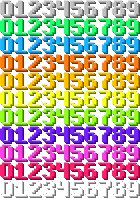
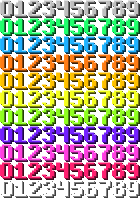
Visor: tamanho proprio (opcao do cliente, 115% por padrao) para hotbar, barras, experiencia, temperatura e estamina; termometro menor e encostado como a estamina (so desvia do numero verde); barra de experiencia 2 px a direita; sombras dos numeros de nivel mais escuras
Claude-Session: https://claude.ai/code/session_019mGK3aUymcjGdU9EbZjEUk

diff --git a/src/main/java/com/bino/binosvanillaplus/client/thirst/ClientTemperature.java b/src/main/java/com/bino/binosvanillaplus/client/thirst/ClientTemperature.java
@@ -34,6 +34,12 @@ public final class ClientTemperature {
 
     public static void receive(TemperatureSyncPayload m) { ambient = m.ambient(); exposure = m.exposure(); has = true; }
 
+    // tamanho do visor (opcao do cliente) para todos os mods
+    @SubscribeEvent
+    public static void onFrame(net.neoforged.neoforge.client.event.RenderFrameEvent.Pre e) {
+        com.bino.binosmovement.client.HudScale.scale = com.bino.binosvanillaplus.ClientConfig.hudScale();
+    }
+
     @SubscribeEvent
     public static void onLogout(ClientPlayerNetworkEvent.LoggingOut e) { has = false; ambient = 20; exposure = 0; }
 
@@ -49,17 +55,17 @@ public final class ClientTemperature {
         e.registerBelow(VanillaGuiLayers.CROSSHAIR, ResourceLocation.fromNamespaceAndPath(BinosVanillaMod.MOD_ID, "heat_vignette"), ClientTemperature::vignette);
     }
 
-    // (27/11) espelha a estamina do outro lado: a mesma altura (32 px, de h-54 a h-22) e do lado de fora das barras;
-    // um vao a mais deixa o numero verde das barras de experiencia aparecer
-    private static final float SCALE = 32f / 21f, TEXT = 1.5f;
+    // (27/11) espelha a estamina do outro lado: centrado na mesma altura (meio em h-38) e encostado nas barras como
+    // ela (2 px), so desviando do numero verde das barras de experiencia; um pouco menor que a estamina
+    private static final float SCALE = 27f / 21f, TEXT = 1.25f;
 
     private static void render(GuiGraphics g, DeltaTracker dt) {
         Minecraft mc = Minecraft.getInstance();
         if (!has || mc.options.hideGui || mc.gameMode == null || !mc.gameMode.canHurtPlayer()) return;
         if (!(mc.getCameraEntity() instanceof Player)) return;
         int w = g.guiWidth(), h = g.guiHeight();
-        float right = w / 2f - 91 - 2 - 11;               // espelho da estamina (w/2 + 91 + 2), mais o numero verde
-        float tx = right - 10 * SCALE, ty = h - 54;
+        float right = Math.min(w / 2f - 91 - 2, com.bino.binosvanillaplus.client.stats.ClientStats.barsNumberLeft(w) - 2);
+        float tx = right - 10 * SCALE, ty = h - 38 - 21 * SCALE / 2f;
         g.pose().pushPose();
         g.pose().translate(tx, ty, 0);
         g.pose().scale(SCALE, SCALE, 1f);
@@ -70,8 +76,8 @@ public final class ClientTemperature {
         String num = String.valueOf(f ? Math.round(ambient * 9f / 5f + 32f) : ambient), unit = f ? "°F" : "°C";
         float k = TEXT, gap = 2;
         float numW = com.bino.binosvanillaplus.client.stats.HudDigits.width(num) * k, unitW = com.bino.binosvanillaplus.client.stats.HudDigits.width(unit) * k;
-        com.bino.binosvanillaplus.client.stats.HudDigits.draw(g, num, tx - gap - numW, ty + 2, k, 0xFFFFFF);
-        com.bino.binosvanillaplus.client.stats.HudDigits.draw(g, unit, tx - gap - unitW, ty + 2 + (8 + 2) * k, k, 0xFFFFFF);
+        com.bino.binosvanillaplus.client.stats.HudDigits.draw(g, num, tx - gap - numW, ty + 1, k, 0xFFFFFF);
+        com.bino.binosvanillaplus.client.stats.HudDigits.draw(g, unit, tx - gap - unitW, ty + 1 + (8 + 3) * k, k, 0xFFFFFF);
     }
 
     // calor forte: bordas alaranjadas na tela (etapa 2 fraca, etapa 3 mais forte)

diff --git a/movement/src/main/java/com/bino/binosmovement/client/HudScale.java b/movement/src/main/java/com/bino/binosmovement/client/HudScale.java
@@ -1,0 +1,60 @@
+package com.bino.binosmovement.client;
+
+import com.bino.binosmovement.BinosMovement;
+import net.minecraft.client.gui.GuiGraphics;
+import net.neoforged.api.distmarker.Dist;
+import net.neoforged.bus.api.EventPriority;
+import net.neoforged.bus.api.SubscribeEvent;
+import net.neoforged.fml.common.EventBusSubscriber;
+import net.neoforged.neoforge.client.event.RenderGuiLayerEvent;
+
+import java.util.Set;
+
+// Tamanho do visor de baixo (hotbar, vida, armadura, fome, sede, ar, experiencia, temperatura, estamina) independente
+// da "Escala da interface" do jogo: cresce/encolhe a partir do meio da base da tela. O valor vem da opcao do Vanilla+
+// (ClientConfig.HUD_SCALE); os desenhos que nao sao camadas (estamina, numero de nivel) chamam push/pop.
+@EventBusSubscriber(modid = BinosMovement.MOD_ID, value = Dist.CLIENT)
+public final class HudScale {
+    private HudScale() {}
+
+    public static float scale = 1f;
+
+    private static final Set<String> LAYERS = Set.of(
+            "minecraft:hotbar", "minecraft:jump_meter", "minecraft:experience_bar", "minecraft:player_health",
+            "minecraft:armor_level", "minecraft:food_level", "minecraft:vehicle_health", "minecraft:air_level",
+            "minecraft:experience_level", "minecraft:selected_item_name", "minecraft:overlay_message",
+            "binosvanillaplus:thirst", "binosvanillaplus:temperature");
+
+    public static boolean active() { return Math.abs(scale - 1f) > 0.001f; }
+
+    public static void push(GuiGraphics g) {
+        g.pose().pushPose();
+        if (!active()) return;
+        float cx = g.guiWidth() / 2f, by = g.guiHeight();
+        g.pose().translate(cx, by, 0);
+        g.pose().scale(scale, scale, 1f);
+        g.pose().translate(-cx, -by, 0);
+    }
+
+    public static void pop(GuiGraphics g) { g.pose().popPose(); }
+
+    private static boolean pushed;
+
+    @SubscribeEvent(priority = EventPriority.HIGHEST)
+    public static void onPre(RenderGuiLayerEvent.Pre e) {
+        if (!LAYERS.contains(e.getName().toString())) return;
+        push(e.getGuiGraphics());
+        pushed = true;
+    }
+
+    // outro mod cancelou a camada: o Post nao vem, entao desfaz aqui
+    @SubscribeEvent(priority = EventPriority.LOWEST, receiveCanceled = true)
+    public static void onPreCanceled(RenderGuiLayerEvent.Pre e) {
+        if (pushed && e.isCanceled() && LAYERS.contains(e.getName().toString())) { pop(e.getGuiGraphics()); pushed = false; }
+    }
+
+    @SubscribeEvent(priority = EventPriority.LOWEST)
+    public static void onPost(RenderGuiLayerEvent.Post e) {
+        if (pushed && LAYERS.contains(e.getName().toString())) { pop(e.getGuiGraphics()); pushed = false; }
+    }
+}

diff --git a/src/main/java/com/bino/binosvanillaplus/client/stats/ClientStats.java b/src/main/java/com/bino/binosvanillaplus/client/stats/ClientStats.java
@@ -55,9 +55,11 @@ public final class ClientStats {
         int w = g.guiWidth(), h = g.guiHeight();
         // nivel do personagem: no lugar do numero do jogo, com os digitos de nivel (cor pela dezena)
         // (27/11) maior e no meio do vao entre as faixas: armadura/coracoes a esquerda, sede/fome a direita
+        com.bino.binosmovement.client.HudScale.push(g);   // mesmo tamanho do resto do visor
         HudDigits.level(g, level, w / 2f, h - 39.5f, 1.5f);
         // barras completas: digitos do Bino em verde, a esquerda da barra de experiencia
         if (mc.player.jumpableVehicle() == null) barsNumber(g, mc, w, h);
+        com.bino.binosmovement.client.HudScale.pop(g);
     }
 
     // ---------------------------------------------------------------- animacao de subir uma barra (desenho do Bino)
@@ -98,7 +100,14 @@ public final class ClientStats {
             net.minecraft.resources.ResourceLocation.fromNamespaceAndPath(com.bino.binosvanillaplus.BinosVanillaMod.MOD_ID, "textures/gui/xp_bar.png");
     public static final int XP_W = 179, XP_H = 5;
     // (27/11) a barra termina exatamente onde termina o ultimo icone de fome (w/2 + 91)
-    public static final int XP_LEFT = 91 - XP_W;   // x da barra = w/2 + XP_LEFT = w/2 - 88
+    public static final int XP_LEFT = 93 - XP_W;   // x da barra = w/2 + XP_LEFT = w/2 - 86 (27/11: 2 px a mais para a direita)
+
+    /** x onde comeca o numero verde de barras (a temperatura fica a esquerda dele) */
+    public static float barsNumberLeft(int guiW) {
+        Minecraft mc = Minecraft.getInstance();
+        int bars = mc.player != null ? mc.player.experienceLevel : 0;
+        return guiW / 2f + XP_LEFT - 2 - HudDigits.width(String.valueOf(bars));
+    }
 
     // fundo inteiro e a parte cheia ate onde a experiencia chegou (desenho do Bino, 179x5)
     private static void xpBar(GuiGraphics g, Minecraft mc) {

diff --git a/src/main/java/com/bino/binosvanillaplus/ClientConfig.java b/src/main/java/com/bino/binosvanillaplus/ClientConfig.java
@@ -13,7 +13,16 @@ public final class ClientConfig {
             .translation("binosvanillaplus.configuration.fahrenheit")
             .define("fahrenheit", false);
 
+    public static final ModConfigSpec.IntValue HUD_SCALE = BUILDER
+            .comment("Tamanho do visor de baixo (hotbar, vida, fome, sede, experiencia, temperatura, estamina), em %, por cima da Escala da interface")
+            .translation("binosvanillaplus.configuration.hudScale")
+            .defineInRange("hudScale", 115, 75, 150);
+
     public static final ModConfigSpec SPEC = BUILDER.build();
+
+    public static float hudScale() {
+        try { return HUD_SCALE.get() / 100f; } catch (IllegalStateException e) { return 1f; }
+    }
 
     public static boolean fahrenheit() {
         try { return FAHRENHEIT.get(); } catch (IllegalStateException e) { return false; }

diff --git a/tools/ui/gen_nivel_numeros.py b/tools/ui/gen_nivel_numeros.py
@@ -21,7 +21,7 @@ CW,CH=6*S+2,8*S+2
 # cores do Bino (27/11), do nivel mais baixo ao mais alto: uma por dezena e a ultima para o 100
 FACES=[(191,191,191),(32,255,107),(32,176,255),(255,124,21),(255,191,0),(242,255,32),(143,255,32),(114,32,255),(255,64,224),(255,32,111),(255,255,255)]
 def mix(a,b,k): return tuple(int(a[i]+(b[i]-a[i])*k) for i in range(3))
-STY=[(mix(f,(255,255,255),0.55), f, mix(f,(0,0,0),0.28), mix(f,(0,0,0),0.55)) for f in FACES]
+STY=[(mix(f,(255,255,255),0.55), f, mix(f,(0,0,0),0.48), mix(f,(0,0,0),0.75)) for f in FACES]   # (27/11) sombras mais escuras
 def glyph(d, st, rainbow=False):
     hi,face,side,shadow=st
     im=Image.new('RGBA',(CW,CH),(0,0,0,0))

diff --git a/combat/src/main/java/com/bino/binoscombat/client/combat/Stamina.java b/combat/src/main/java/com/bino/binoscombat/client/combat/Stamina.java
@@ -124,6 +124,11 @@ public final class Stamina {
         LocalPlayer p = mc.player;
         if (p == null || mc.options.hideGui || free() || mc.gameMode == null || !mc.gameMode.canHurtPlayer()) return;
         GuiGraphics g = e.getGuiGraphics();
+        com.bino.binosmovement.client.HudScale.push(g);   // mesmo tamanho do resto do visor
+        try { draw(g); } finally { com.bino.binosmovement.client.HudScale.pop(g); }
+    }
+
+    private static void draw(GuiGraphics g) {
         long now = now();
         int s = 2;
         int x0 = g.guiWidth() / 2 + 91 + 2, y0 = g.guiHeight() - 22 - 16 * s;
